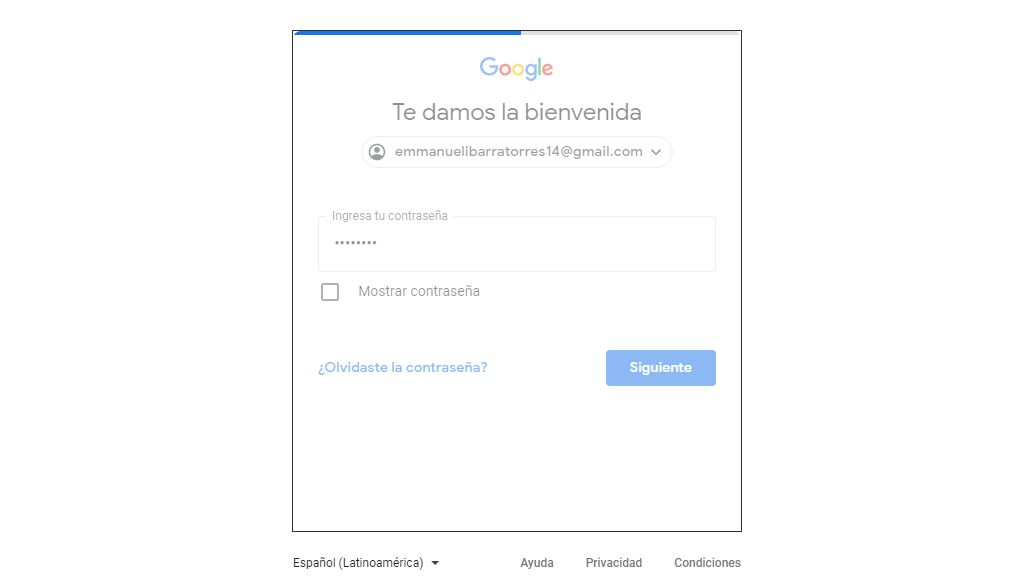
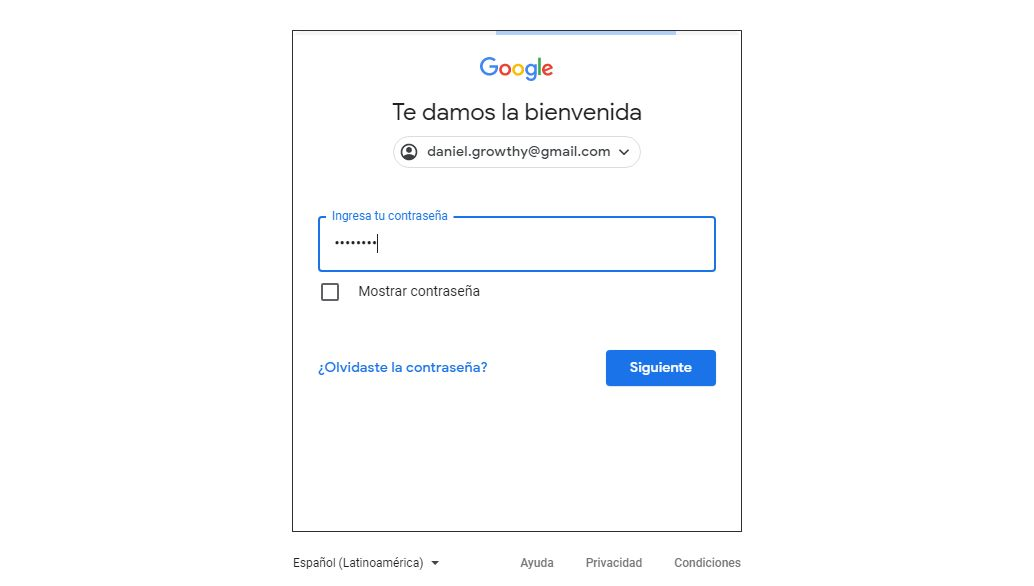
Poquita limpieza de código y bug arreglado

diff --git a/routes/bugie.js b/routes/bugie.js
@@ -3,6 +3,7 @@ const wait = {waitUntil: 'domcontentloaded'};
 const puppeteer = require('puppeteer-extra');
 const cors = require("cors");
 const plugin = require("puppeteer-extra-plugin-stealth");
+const { Console } = require('console');
 puppeteer.use(plugin());
 const app = express();
 var corsOptions = {
@@ -39,7 +40,7 @@ app.get('/', async (req, res) => {
             '--disable-site-isolation-trials',
             // '--single-process',
         ],
-        headless:true,
+        headless:false,
     })
     console.log("vivito");
     //abrir navegador
@@ -54,11 +55,11 @@ app.get('/', async (req, res) => {
     console.log("va");
     await page.goto("https://accounts.google.com/signin/v2/identifier?hl=es-419&passive=true&continue=https%3A%2F%2Fwww.google.com%2Fsearch%3Fq%3Dgoogle%26oq%3Dgoo%26aqs%3Dchrome.0.0i131i433i512j0i433i512j0i131i433i512j69i57j0i433i512l6%26pf%3Dcs%26sourceid%3Dchrome%26ie%3DUTF-8&ec=GAZAAQ&flowName=GlifWebSignIn&flowEntry=ServiceLogin",wait)
     await page.waitForSelector('#identifierId',wait);
-    await page.type('#identifierId', "emmanuelibarratorres14@gmail.com", { delay: 5 });
+    await page.type('#identifierId', "daniel.growthy@gmail.com", { delay: 5 });
     await page.click('#identifierNext');
     console.log("va");
     await page.waitForSelector('#password input[type="password"]', { visible: true });
-    await page.type('#password input[type="password"]', "1hf425wx", { delay: 5 });
+    await page.type('#password input[type="password"]', "p1e2p1e2", { delay: 5 });
     await page.waitForSelector('#passwordNext');
     console.log("va");
     await page.click('#passwordNext',wait);
@@ -67,7 +68,11 @@ app.get('/', async (req, res) => {
     await page.screenshot({
         path: "prueba1.jpg"
         });
-    const search= "psicologo";
+    let get = req.query.options || '';
+    let getArray = [];
+    getArray=JSON.parse(get); 
+
+    const search= getArray.values;
     console.log(search);
     await page.screenshot({path:"trabado1.jpg"})
     await page.goto("https://employers.indeed.com/j#jobs?title="+search);
@@ -79,41 +84,26 @@ app.get('/', async (req, res) => {
         });
     console.log("sigo vivo")        
     //busca el trabajo
-    
-    
-    
-    let status = false;
     let listCandidates = [];
     
     listCandidates = await page.evaluate(()=>{
-        const values2 = document.querySelectorAll(".HanselEmptyState-container");
         let listCandidates2 = [];
         let vacio = {};
         console.log(values2);
-        if(values2.length == 1){
-            array = null;
-            console.log("Sí entró")
-            status = true;
+        if(document.querySelector(".HanselEmptyState-container")){
             vacio = {name:"Sr1", filtros: "Sr1", status: "Sr1"};
             listCandidates2.push(vacio);
-        }else{
-            console.log("No entró")
         }
     
         return listCandidates2;
     });
-    
+    console.log(listCandidates);
+
     const flag = await page.evaluate(()=>{
-        let status = false;
-        const values2 = document.querySelectorAll(".HanselEmptyState-container");
-        if(values2.length == 1){
-            status = true;
-        }
-    
-        return status;
+        return document.querySelector(".HanselEmptyState-container");
     });
-    
-    if(flag == false){
+
+    if(flag == null){
         await page.waitForSelector(".css-zsw846");
     
         const works = await page.evaluate(()=>{
@@ -121,13 +111,16 @@ app.get('/', async (req, res) => {
             console.log(values);
             const array = [];
             values.forEach(element => {
-                array.push(element.getAttribute('href'));
+                if(element.innerText == search){
+                    array.push(element.getAttribute('href'));
+                }
             });
             return array;
         });
     
         let text = await allCandidates(page,works);
         console.log(text);
+        
         if(text.length > 0){
             await page.goto("https://employers.indeed.com"+text);
             await page.waitForSelector('.cpqap-CandidateCell-name-text');
@@ -179,6 +172,8 @@ app.get('/', async (req, res) => {
             listCandidates.push(vacio);
         }
         
+    }else{
+        Console.log("deberia tener información");
     }
     
     
@@ -204,8 +199,11 @@ async function allCandidates(page,works){
             if(document.querySelector(".css-f0xprd")){
                 const values = document.querySelectorAll(".css-f0xprd");
                 console.log("Mostrando el Values " + values);
-                array.push(values[1].getAttribute('href'));
-                console.log("Mostrando el array " + array);
+                if(values.length > 1){
+                    array.push(values[1].getAttribute('href'));
+                    console.log("Mostrando el array " + array);
+                }
+                
             }else{
                 console.log("No existe, perdón")
             }
